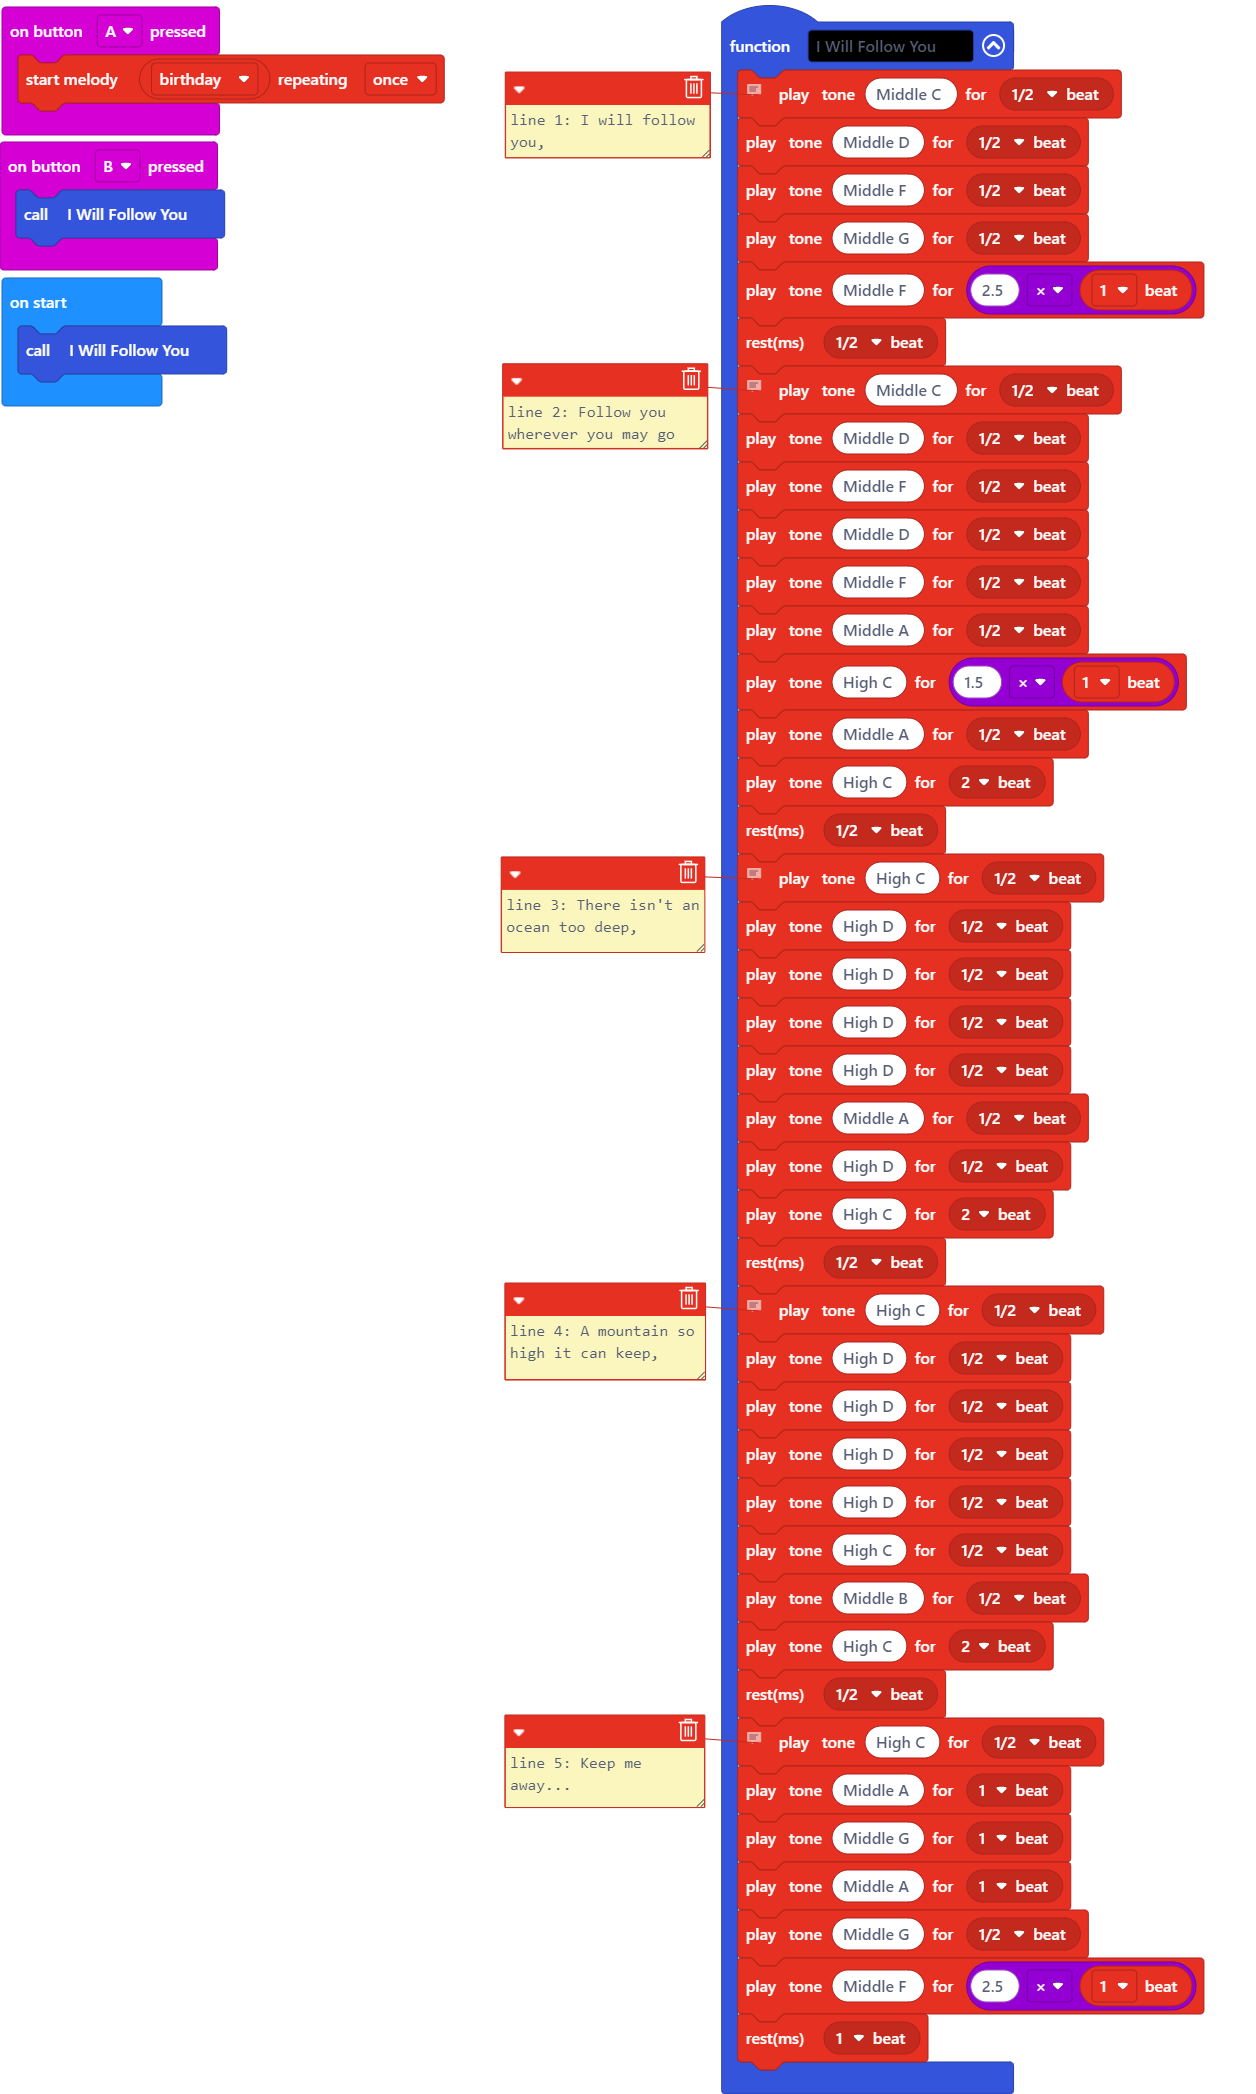
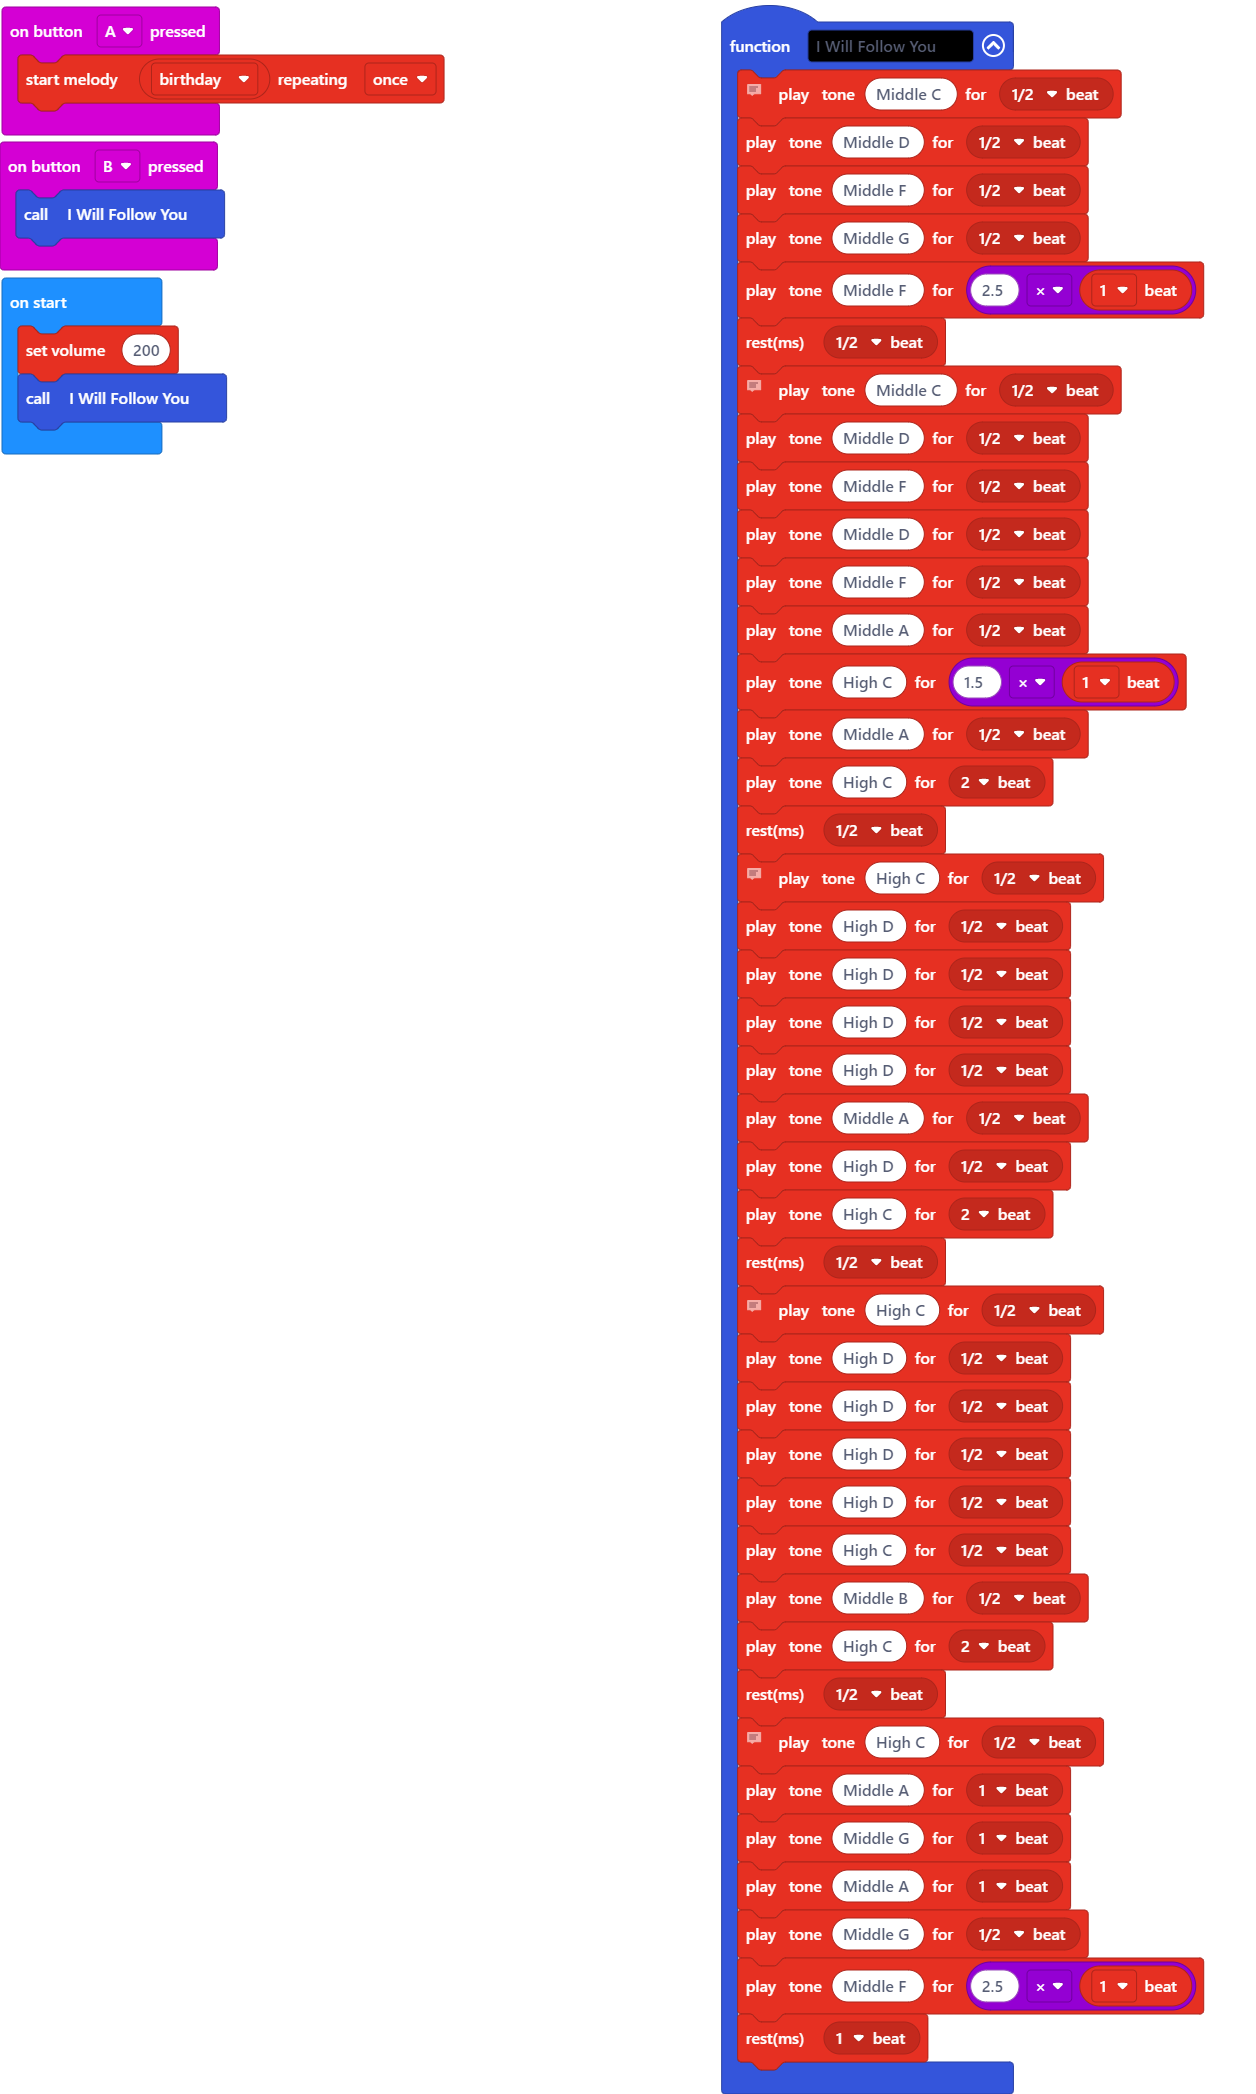
Update pxt.json, main.blocks, main.ts

diff --git a/main.ts b/main.ts
@@ -52,4 +52,5 @@ input.onButtonPressed(Button.A, function () {
 input.onButtonPressed(Button.B, function () {
     I_Will_Follow_You()
 })
+music.setVolume(200)
 I_Will_Follow_You()
